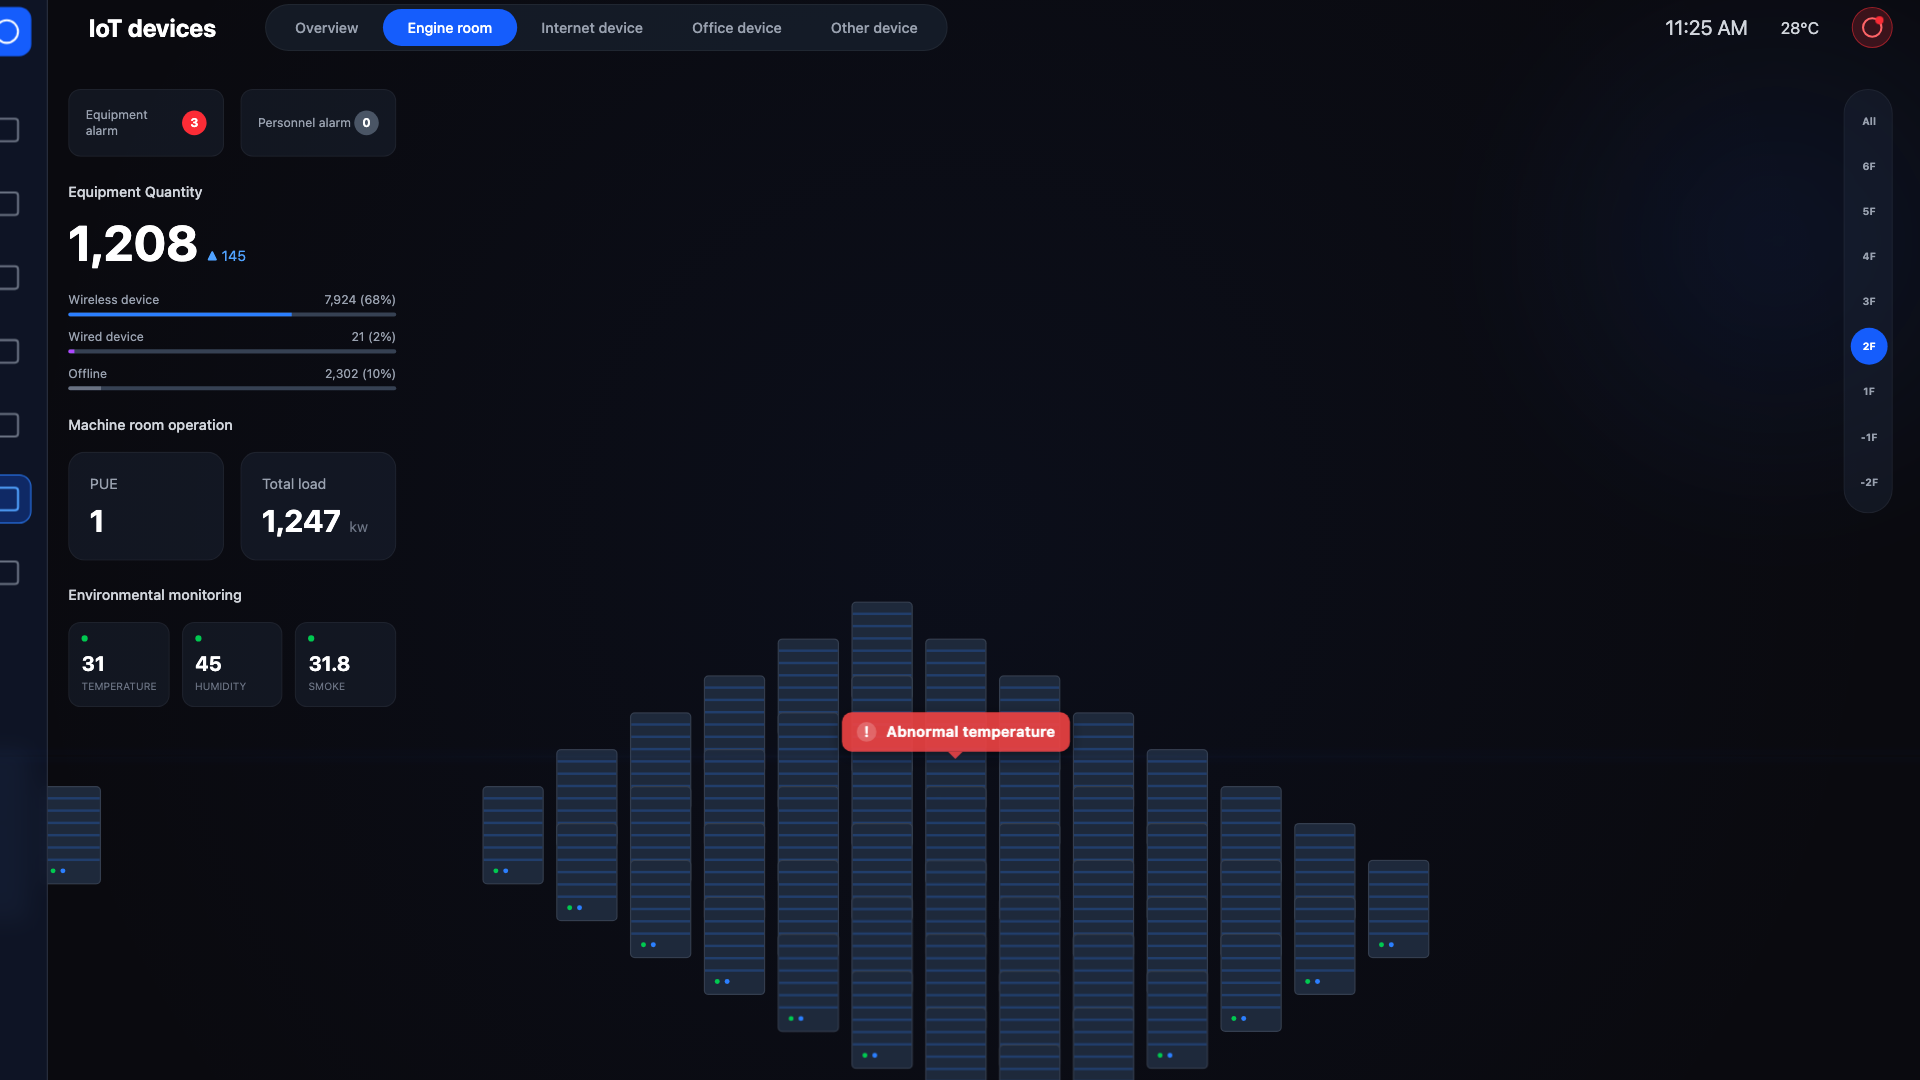
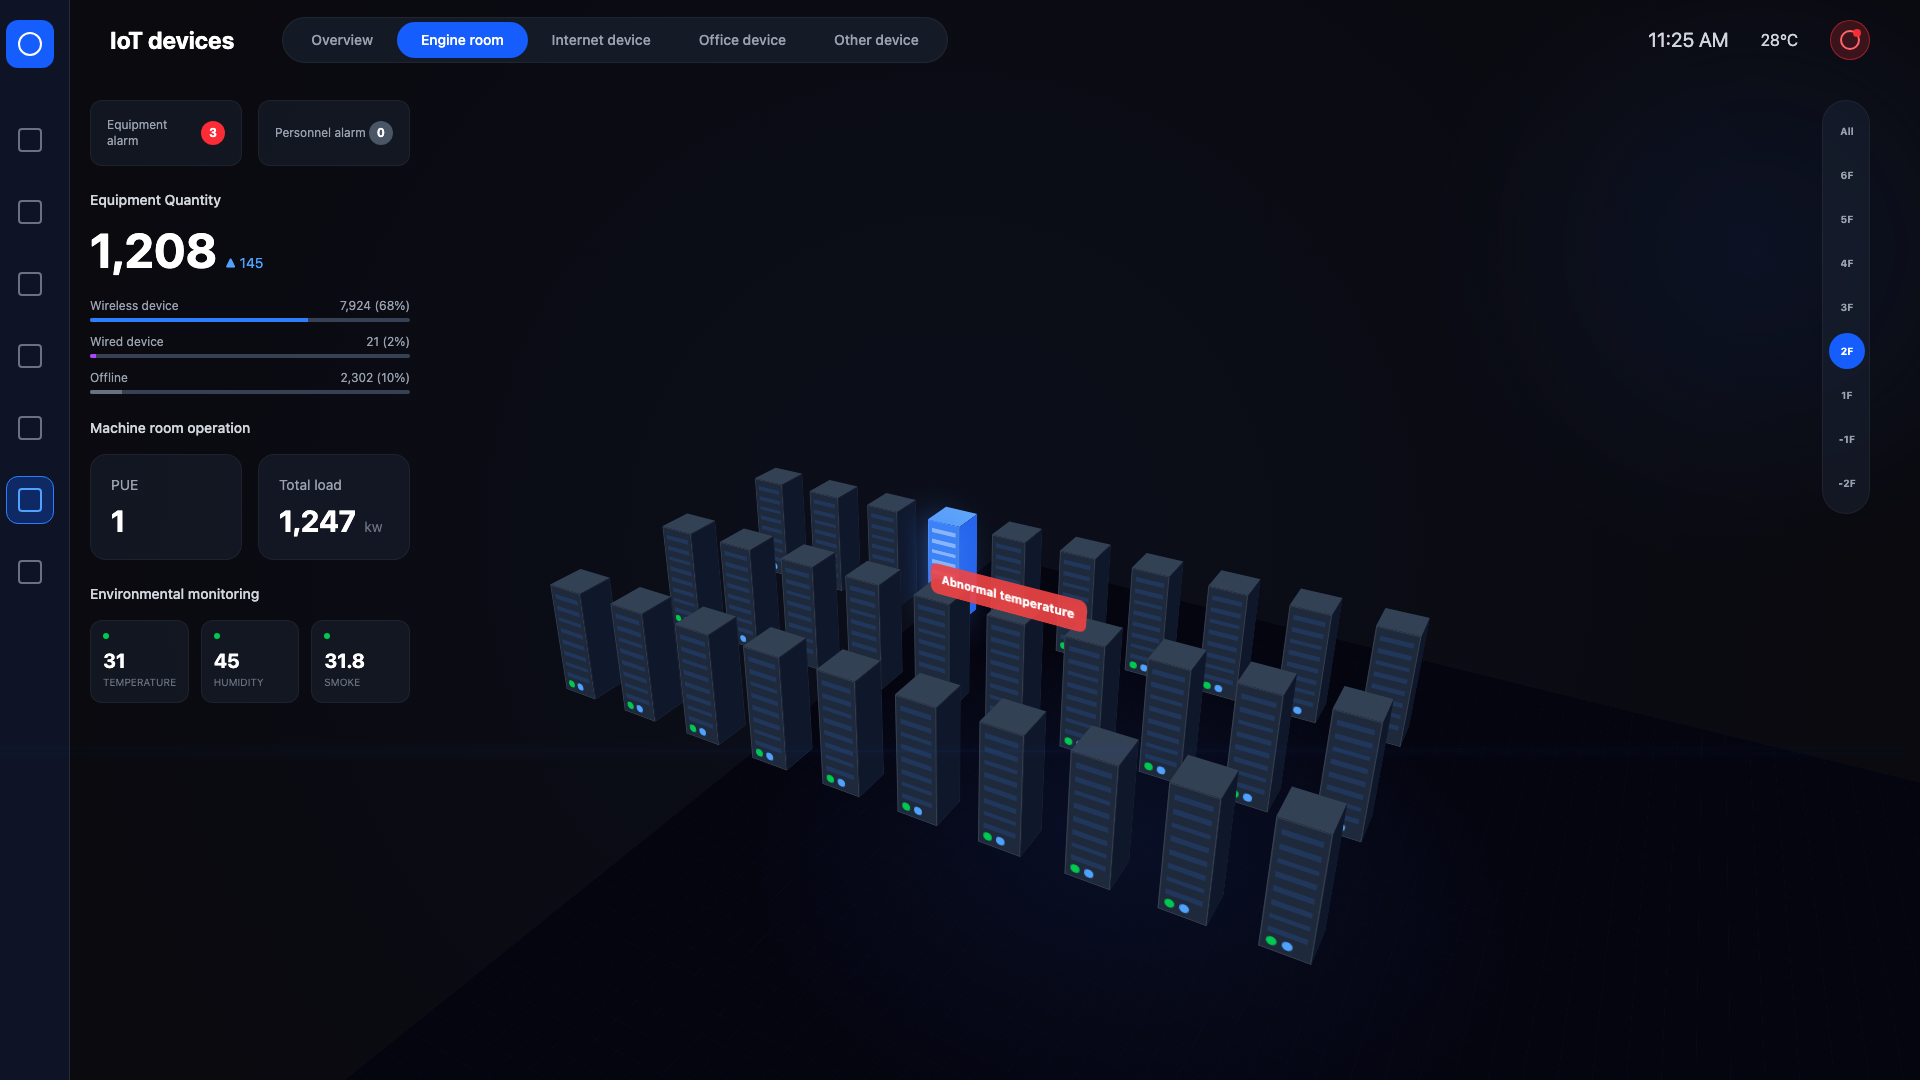
remove CTRGrid

diff --git a/src/IoTDashboard.tsx b/src/IoTDashboard.tsx
@@ -1,4 +1,4 @@
-import React from 'react';
+import React, { useState, useCallback } from 'react';
 import { AbsoluteFill, Audio, interpolate, spring, staticFile, useCurrentFrame, useVideoConfig } from 'remotion';
 
 const Sidebar = () => {
@@ -45,7 +45,7 @@ const Sidebar = () => {
   );
 };
 
-const TopBar = () => {
+const TopBar = ({ onToggleHUD }: { onToggleHUD: () => void }) => {
   const frame = useCurrentFrame();
   const { fps } = useVideoConfig();
   const fadeIn = spring({
@@ -89,16 +89,18 @@ const TopBar = () => {
         <div className="flex items-center gap-2">
           <span>28°C</span>
         </div>
-        <div 
-          className="w-10 h-10 bg-red-500/20 border border-red-500/50 rounded-full flex items-center justify-center relative"
+        <button 
+          onClick={onToggleHUD}
+          className="w-10 h-10 bg-red-500/20 border border-red-500/50 rounded-full flex items-center justify-center relative hover:bg-red-500/30 transition-colors cursor-pointer"
           style={{
             boxShadow: `0 0 ${interpolate(Math.sin(frame / 5), [-1, 1], [5, 20])}px rgba(239, 68, 68, 0.5)`,
             animation: 'pulse 1s infinite',
+            outline: 'none',
           }}
         >
           <div className="w-2 h-2 bg-red-500 rounded-full absolute top-2 right-2 animate-pulse" />
           <div className="w-5 h-5 border-2 border-red-400 rounded-full" />
-        </div>
+        </button>
       </div>
     </div>
   );
@@ -491,16 +493,18 @@ const Ceiling = () => {
         position: 'absolute',
         width: 4000,
         height: 4000,
-        background: `
-          linear-gradient(rgba(37, 99, 235, 0.03) 1px, transparent 1px),
-          linear-gradient(90deg, rgba(37, 99, 235, 0.03) 1px, transparent 1px),
-          #050510
-        `,
-        backgroundSize: '160px 160px',
+        background: '#050510',
         transform: 'translate3d(-2000px, -400px, -2000px) rotateX(90deg)',
         zIndex: -1,
       }}
     >
+      {/* Structural grid lines (Solid) */}
+      {[...Array(20)].map((_, i) => (
+        <React.Fragment key={i}>
+          <div style={{ position: 'absolute', left: i * 200, top: 0, bottom: 0, width: '1px', background: 'rgba(37, 99, 235, 0.05)' }} />
+          <div style={{ position: 'absolute', top: i * 200, left: 0, right: 0, height: '1px', background: 'rgba(37, 99, 235, 0.05)' }} />
+        </React.Fragment>
+      ))}
       {/* Overhead lights */}
       {[...Array(5)].map((_, i) => (
         <div
@@ -568,16 +572,44 @@ const Floor = () => {
         position: 'absolute',
         width: 4000,
         height: 4000,
-        background: `
-          linear-gradient(rgba(37, 99, 235, 0.05) 1px, transparent 1px),
-          linear-gradient(90deg, rgba(37, 99, 235, 0.05) 1px, transparent 1px),
-          #050510
-        `,
-        backgroundSize: '80px 80px',
+        background: '#0a0a14',
         transform: 'translate3d(-2000px, 0, -2000px) rotateX(90deg)',
         zIndex: -1,
+        boxShadow: 'inset 0 0 100px rgba(0,0,0,0.5)',
       }}
-    />
+    >
+      {/* Polished Concrete / Raised Tile Texture */}
+      <div 
+        style={{
+          position: 'absolute',
+          inset: 0,
+          backgroundImage: `
+            linear-gradient(rgba(255,255,255,0.02) 1px, transparent 1px),
+            linear-gradient(90deg, rgba(255,255,255,0.02) 1px, transparent 1px),
+            radial-gradient(circle at center, rgba(37, 99, 235, 0.05) 0%, transparent 80%)
+          `,
+          backgroundSize: '100px 100px, 100px 100px, 100% 100%',
+        }}
+      />
+
+      {/* Floor Grid (Subtle Structural lines) */}
+      {[...Array(40)].map((_, i) => (
+        <React.Fragment key={i}>
+          <div style={{ position: 'absolute', left: i * 100, top: 0, bottom: 0, width: '1px', background: 'rgba(37, 99, 235, 0.12)', boxShadow: '0 0 5px rgba(37,99,235,0.2)' }} />
+          <div style={{ position: 'absolute', top: i * 100, left: 0, right: 0, height: '1px', background: 'rgba(37, 99, 235, 0.12)', boxShadow: '0 0 5px rgba(37,99,235,0.2)' }} />
+        </React.Fragment>
+      ))}
+
+      {/* Reflection / Specular Highlights */}
+      <div 
+        style={{
+          position: 'absolute',
+          inset: 0,
+          background: 'linear-gradient(135deg, rgba(255,255,255,0.03) 0%, transparent 50%, rgba(255,255,255,0.03) 100%)',
+          pointerEvents: 'none',
+        }}
+      />
+    </div>
   );
 };
 
@@ -685,7 +717,7 @@ const Particles = () => {
   );
 };
 
-const ServerRoom = () => {
+const ServerRoom = ({ showHUD }: { showHUD: boolean }) => {
   const frame = useCurrentFrame();
   const cameraRotateY = interpolate(frame, [0, 300], [-35, -25]);
   const cameraRotateX = -25;
@@ -712,22 +744,73 @@ const ServerRoom = () => {
         <Floor />
         <Cables />
         <Particles />
-        {frame > 120 && <FloatingHUD alert />}
+        {showHUD && <FloatingHUD alert />}
         
-        {/* Background Walls */}
+        {/* Background Wall (Rear) */}
         <div
           style={{
             position: 'absolute',
             width: 4000,
-            height: 1000,
-            background: '#050510',
-            borderBottom: '2px solid rgba(59, 130, 246, 0.2)',
-            transform: 'translate3d(-2000px, -400px, -1000px)',
+            height: 1200,
+            background: 'linear-gradient(to bottom, #050510, #0a0a14)',
+            transform: 'translate3d(-2000px, -600px, -1000px)',
+            zIndex: -2,
+            borderBottom: '1px solid rgba(59, 130, 246, 0.2)',
+          }}
+        >
+          {/* Structural Wall Panels */}
+          {[...Array(10)].map((_, i) => (
+            <div
+              key={i}
+              style={{
+                position: 'absolute',
+                left: i * 400,
+                top: 0,
+                bottom: 0,
+                width: '398px',
+                borderRight: '2px solid rgba(0,0,0,0.3)',
+                background: 'linear-gradient(90deg, transparent, rgba(255,255,255,0.01))',
+              }}
+            >
+              {/* Horizontal detail lines */}
+              <div style={{ position: 'absolute', top: '20%', left: 0, right: 0, height: '1px', background: 'rgba(255,255,255,0.02)' }} />
+              <div style={{ position: 'absolute', top: '60%', left: 0, right: 0, height: '1px', background: 'rgba(255,255,255,0.02)' }} />
+              
+              {/* Status light on panel */}
+              <div style={{ position: 'absolute', top: '15%', left: '10%', width: '4px', height: '4px', borderRadius: '50%', background: '#3b82f6', opacity: 0.3, boxShadow: '0 0 10px #3b82f6' }} />
+            </div>
+          ))}
+
+          {/* Glowing conduit on wall */}
+          <div style={{ position: 'absolute', bottom: 0, left: 0, right: 0, height: '4px', background: 'rgba(59, 130, 246, 0.1)', boxShadow: '0 0 20px rgba(59, 130, 246, 0.2)' }} />
+        </div>
+
+        {/* Side Wall (Left) */}
+        <div
+          style={{
+            position: 'absolute',
+            width: 2000,
+            height: 1200,
+            background: '#070712',
+            transform: 'translate3d(-2000px, -600px, 0) rotateY(90deg)',
             zIndex: -2,
           }}
         >
-          {/* Glowing conduit on wall */}
-          <div style={{ position: 'absolute', bottom: 100, left: 0, right: 0, height: '2px', background: '#3b82f6', boxShadow: '0 0 20px #3b82f6', opacity: 0.3 }} />
+          <div style={{ position: 'absolute', inset: 0, background: 'linear-gradient(to bottom, transparent, rgba(0,0,0,0.5))' }} />
+        </div>
+
+        {/* Side Wall (Right) */}
+        <div
+          style={{
+            position: 'absolute',
+            width: 2000,
+            height: 1200,
+            background: '#070712',
+            transform: 'translate3d(2000px, -600px, 0) rotateY(-90deg)',
+            zIndex: -2,
+          }}
+        >
+          <div style={{ position: 'absolute', inset: 0, background: 'linear-gradient(to bottom, transparent, rgba(0,0,0,0.5))' }} />
         </div>
 
         {/* Row 1 */}
@@ -765,24 +848,6 @@ const ServerRoom = () => {
         />
       </div>
     </div>
-  );
-};
-
-const CRTGrid = () => {
-  return (
-    <div
-      style={{
-        position: 'absolute',
-        inset: 0,
-        background: `
-          linear-gradient(rgba(18, 16, 16, 0) 50%, rgba(0, 0, 0, 0.25) 50%),
-          linear-gradient(90deg, rgba(255, 0, 0, 0.06), rgba(0, 255, 0, 0.02), rgba(0, 0, 255, 0.06))
-        `,
-        backgroundSize: '100% 4px, 3px 100%',
-        pointerEvents: 'none',
-        zIndex: 100,
-      }}
-    />
   );
 };
 
@@ -832,29 +897,25 @@ const LightLeak = () => {
 
 export const IoTDashboard = () => {
   const frame = useCurrentFrame();
+  const [showHUD, setShowHUD] = useState(false);
   
-  const panX = interpolate(frame, [0, 300], [0, -20]);
+  const toggleHUD = useCallback(() => {
+    setShowHUD((prev) => !prev);
+  }, []);
 
   return (
     <AbsoluteFill className="bg-[#0a0a0f] text-white font-sans overflow-hidden">
-      <div
-        style={{
-          width: '100%',
-          height: '100%',
-          transform: ` translateX(${panX}px)`,
-        }}
-      >
+      <div className="w-full h-full relative">
         {/* Background Glows */}
         <div className="absolute top-1/2 left-1/2 -translate-x-1/2 -translate-y-1/2 w-[120%] h-[120%] bg-[radial-gradient(circle_at_center,rgba(37,99,235,0.05)_0%,transparent_70%)]" />
         
         <LightLeak />
         <ScanLine />
-        <CRTGrid />
         
-        <ServerRoom />
+        <ServerRoom showHUD={showHUD} />
         
         <Sidebar />
-        <TopBar />
+        <TopBar onToggleHUD={toggleHUD} />
         <LeftPanel />
         <RightPanel />
       </div>
